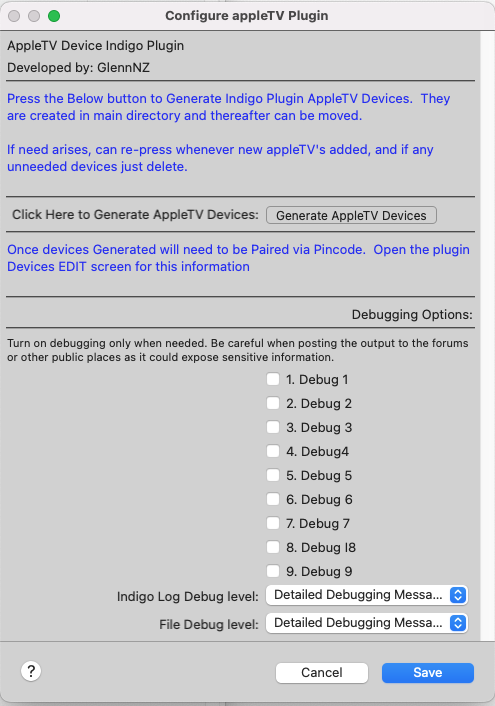
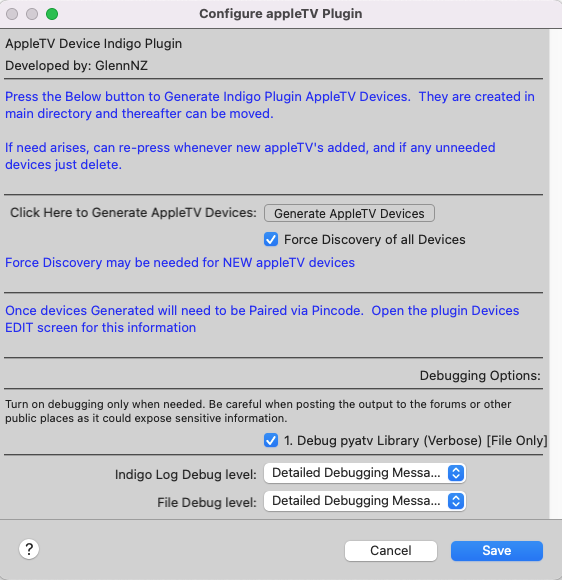
0.0.20 Add pyatv verbose logging (Debug checkbox in plugin Config)  Only logs to file given volume Refactor main appleTVListener loop to restart after any issue Bug fix for connectionlost/close that wasn't leading to correct restart Hopefully fix menu loading for actions remote commands Change Indig
0.0.17
Sort out reloading of remote commands not displaying until save and reopen
Add error catching around commands - in case some that aren't compatible with various devices
On restart/disconnet reload app_list

0.0.16
Add Force Discovery setting to add NEW appleTV devices
(seems to be needed for new 4k device)
Probably a good option...

0.0.15
Additional Remote control states - allow arguments to be sent.
Enabling set volume, double tap, hold, play_URL etc.
MenuItem: Add Logging info to show all Commands possible (not available!)
MenuItem: Add Logging info to show Features available for each Device
Remove unrecognised devices from being created.  (Tested Sonos devices can't work use Airplay2, and unknown encryption)
Should allow AppleTVs (all) and HomePods (untested)
Restart Device after pairing (avoiding need to restart plugin if connection issues)
Fine tuning some aspects.
More repeated reporting of PowerState

Changed region(s): [[0.0, 0.0, 1.0, 0.931], [0.0, 0.931, 1.0, 1.0], [0.0303, 0.931, 0.0909, 0.9621]]

diff --git a/appleTV.indigoPlugin/Contents/Server Plugin/plugin.py b/appleTV.indigoPlugin/Contents/Server Plugin/plugin.py
@@ -79,7 +79,11 @@ class IndigoFileLogHandler(TimedRotatingFileHandler):
             levelno = int(record.levelno)
             if self.level <= levelno:  ## Don't do anything if level display is lower
                 new_msg = f"{path.basename(record.pathname)}:{record.funcName}:{record.lineno}"
-                record.msg =  f"{new_msg} : {record.msg}"
+                try:
+                    second_msg = record.msg % record.args
+                except:
+                    second_msg = record.msg
+                record.msg =  str(new_msg+" : "+second_msg)
                 record.args = None  ## This is the old string formatting %s issue.  Need to combine and then delete all args
                 try:
                     if self.shouldRollover(record):
@@ -164,7 +168,6 @@ class appleTVListener( pyatv.interface.DeviceListener,pyatv.interface.PushListen
         self._app_list = None
         self.all_features = None
         self._task = self.loop.create_task(self.loop_atv(self.loop, atv_config=self.atv_config, deviceid=self.deviceid))
-
 
     ## Add properties
     @property
@@ -288,17 +291,13 @@ class appleTVListener( pyatv.interface.DeviceListener,pyatv.interface.PushListen
 
     def connection_lost(self, exception: Exception) -> None:
         """Call when connection was lost."""
-        self._remove()
+        self.plugin.logger.info("Connection to appleTV lost")
         self._handle_disconnect()
 
     def connection_closed(self) -> None:
         """Call when connection was closed."""
-        self._remove()
+        self.plugin.logger.info("Connection to appleTV closed.")
         self._handle_disconnect()
-
-    def _remove(self):
-        self.app["atv"].pop(self.identifier)
-        self.app["listeners"].remove(self)
 
     def playstatus_update(self, updater, playstatus: pyatv.interface.Playing) -> None:
         """Call when play status was updated."""
@@ -368,6 +367,9 @@ class appleTVListener( pyatv.interface.DeviceListener,pyatv.interface.PushListen
         try:
            # device = retrieve_commands(pyatv.DeviceCommands)
             self.plugin.logger.debug(f"_handle_device_command called - Args: {args}  Cmd:{cmd}")
+            if self.atv == None:
+                self.plugin.logger.info("Current AppleTV is not connected.  Aborting Command request.")
+                return
             ctrl = retrieve_commands(pyatv.interface.RemoteControl)
             metadata = retrieve_commands(pyatv.interface.Metadata)
             power = retrieve_commands(pyatv.interface.Power)
@@ -419,6 +421,7 @@ class appleTVListener( pyatv.interface.DeviceListener,pyatv.interface.PushListen
 
     async def _exec_command(self, obj, command, print_result, *args):
         try:
+
             # If the command to execute is a @property, the value returned by that
             # property will be stored in tmp. Otherwise it's a coroutine and we
             # have to yield for the result and wait until it is available.
@@ -467,36 +470,6 @@ class appleTVListener( pyatv.interface.DeviceListener,pyatv.interface.PushListen
         except:
             self.plugin.logger.exception("Error in send_command")
 
-    async def del_async_end_command(self, command, **kwargs):
-        """Send a command to one device."""
-        #num_repeats = kwargs[ATTR_NUM_REPEATS]
-       # delay = kwargs.get(ATTR_DELAY_SECS, DEFAULT_DELAY_SECS)
-        try:
-            command=command.strip(";")
-            self.plugin.logger.debug(f"Within async send command.  Command {command}")
-            if not self.atv:
-                self.plugin.logger.info("Unable to send commands, not connected to %s", self.name)
-                return
-            attr_value = getattr(self.atv.remote_control, command, None)
-            if not attr_value:
-                raise ValueError("Command not found. Exiting sequence")
-            self.plugin.logger.debug("Sending command %s", command)
-            await attr_value()
-            await asyncio.sleep(0.1)
-        except ValueError:
-            self.plugin.logger.info(f"This Command is not supported.  Command in question = {command}")
-            self.plugin.logger.debug(f"Exception:",exc_info=True)
-            return
-        except pyatv.exceptions.NotSupportedError:
-            self.plugin.logger.info(f"This Command is not supported.  Command in question = {command}")
-            self.plugin.logger.debug(f"Exception:", exc_info=True)
-            return
-        except pyatv.exceptions.CommandError:
-            self.plugin.logger.debug("Command Error in Send Command", exc_info=True)
-            self.plugin.logger.info(f"Command Failed.  Command in question = {command}")
-        except:
-            self.plugin.logger.exception("Async send command exception.")
-
     def playstatus_error(self, updater, exception: Exception) -> None:
         self.plugin.logger.debug("Error in Playstatus", exc_info=True)
 
@@ -506,7 +479,7 @@ class appleTVListener( pyatv.interface.DeviceListener,pyatv.interface.PushListen
         try:
             atvs = await pyatv.scan(loop, identifier=identifier)
             if not atvs:
-                self.plugin.logger.info("No devices found, will retry")
+                self.plugin.logger.info("This specific Device cannot be found.  Please try power cycling it.")
                 return
             config = atvs[0]
             self.plugin.logger.debug(f"AppleTV:\n {config}") #{config.services[0].pairing}")
@@ -521,57 +494,46 @@ class appleTVListener( pyatv.interface.DeviceListener,pyatv.interface.PushListen
         except:
             self.plugin.logger.exception("Connect ATV Exception")
 
-    async def loop_atv(self, loop, atv_config, deviceid):
-        try:
-            identifier = atv_config["identifier"]
-            airplay_credentials = atv_config["credentials"]
-            self.atv = await self.connect_atv(loop, identifier, airplay_credentials)
-            if self.atv:
-                listener = self
-                self.atv.push_updater.listener = listener
-                self.atv.listener = listener
-                self.atv.power.listener = listener
-                self.atv.push_updater.start()
-                self.atv.listener.start()
-                self.atv.power.listener.start()
-                self.plugin.logger.debug("Push updater started")
-                device = indigo.devices[deviceid]
-                device.updateStateOnServer(key="status", value="Paired. Push Updating.")
-                # Update app list
-                self.plugin.logger.debug("Updating app list")
-                self.plugin.logger.info(f"{device.name} successfully connected and real-time Push updating enabled.")
-                if self.isAppleTV:
-                    await self._update_app_list()
+    async def start_loop_atv(self, loop, atv_config, deviceid):
+        while True:
+            try:
+                self.loop_atv(loop, atv_config,deviceid)
+            except self.plugin.stopThread:
+                break
+            except:
+                self.plugin.logger.debug("Exception in Loop_ATV:  Should restart.", exc_info=True)
 
-            while True:
-                await asyncio.sleep(20)
-                try:
-                    pass
-                    #self.atv.metadata.app
-                except self.plugin.stopThread:
-                    break
-                except:
-                    self.plugin.logger.debug("Exception:", exc_info=True)
-                    self.plugin.logger.debug("Reconnecting to Apple TV")
-                    # reconnect to apple tv
-                    self.atv = await self.connect_atv(loop, identifier, airplay_credentials)
-                    if self.atv:
-                        listener = self
-                        self.atv.push_updater.listener = listener
-                        self.atv.listener = listener
-                        self.atv.power.listener = listener
-                        self.atv.push_updater.start()
-                        self.atv.listener.start()
-                        self.atv.power.listener.start()
-                        self.plugin.logger.debug("Push updater started")
-                        self.plugin.logger.info(f"{device.name} successfully connected and real-time Push updating enabled.")
-                        if self.isAppleTV:
-                            await self._update_app_list()
-        except self.plugin.stopThread:
-            pass
-        except:
-            self.plugin.logger.debug("Exception Loop:",exc_info=True)
-################################################################################
+
+    async def loop_atv(self, loop, atv_config, deviceid):
+
+        while True:
+            try:
+                identifier = atv_config["identifier"]
+                airplay_credentials = atv_config["credentials"]
+                self.atv = await self.connect_atv(loop, identifier, airplay_credentials)
+                if self.atv:
+                    self.atv.push_updater.listener = self
+                    self.atv.listener = self
+                    self.atv.power.listener = self
+                    self.atv.push_updater.start()
+                    self.atv.listener.start()
+                    self.atv.power.listener.start()
+                    self.plugin.logger.debug("Push updater started")
+                    device = indigo.devices[deviceid]
+                    device.updateStateOnServer(key="status", value="Paired. Push Updating.")
+                    # Update app list
+                    self.plugin.logger.debug("Updating app list")
+                    self.plugin.logger.info(f"{device.name} successfully connected and real-time Push updating enabled.")
+                    if self.isAppleTV:
+                        await self._update_app_list()
+                    while True:
+                        await asyncio.sleep(20)
+
+            except self.plugin.stopThread:
+                break
+            except:
+                self.plugin.logger.debug("Exception in Loop_ATV:  Should restart.",exc_info=True)
+    ################################################################################
 class Plugin(indigo.PluginBase):
     def __init__(self, pluginId, pluginDisplayName, pluginVersion, pluginPrefs):
         indigo.PluginBase.__init__(self, pluginId, pluginDisplayName, pluginVersion, pluginPrefs)
@@ -615,7 +577,9 @@ class Plugin(indigo.PluginBase):
         ################################################################################
         # Finish Logging changes
         ################################################################################
-        logging.getLogger("Plugin.pyatv").setLevel(logging.THREADDEBUG)
+
+
+
         try:
             import pyatv
         except ImportError:
@@ -663,14 +627,15 @@ class Plugin(indigo.PluginBase):
         self.debug8 = self.pluginPrefs.get('debug8', False)
         self.debug9 = self.pluginPrefs.get('debug9', False)
 
-        if self.debug3:
-            logging.getLogger("Plugin.HomeKit_pyHap").setLevel(logging.DEBUG)
-        else:
-            logging.getLogger("Plugin.HomeKit_pyHap").setLevel(logging.INFO)
-
         self._event_loop = None
         self._another_event_loop = None
         self._async_thread = None
+
+        if self.debug1:
+            pyatv_logging = logging.getLogger("pyatv")
+            pyatv_logging.setLevel(logging.THREADDEBUG)
+            #pyatv_logging.addHandler(self.indigo_log_handler)
+            pyatv_logging.addHandler(self.plugin_file_handler)
 
         self.logger.info(u"{0:=^130}".format(" End Initializing New Plugin  "))
 
@@ -708,6 +673,11 @@ class Plugin(indigo.PluginBase):
             self.logger.debug(u"logLevel = " + str(self.logLevel))
             self.logger.debug(u"User prefs saved.")
             self.logger.debug(u"Debugging on (Level: {0})".format(self.logLevel))
+            if self.debug1:
+                pyatv_logging = logging.getLogger("pyatv")
+                pyatv_logging.setLevel(logging.THREADDEBUG)
+                # pyatv_logging.addHandler(self.indigo_log_handler)
+                pyatv_logging.addHandler(self.plugin_file_handler)
         return True
 
     def deviceStartComm(self, device):
@@ -1240,7 +1210,7 @@ class Plugin(indigo.PluginBase):
                 break
 
     def menu_callback(self, valuesDict, *args, **kwargs):  # typeId, devId):
-        self.logger.debug("Subtype callback: returning valuesDict \n {}".format(valuesDict))
+        self.logger.debug(f"Menu callback: returning valuesDict: \n {valuesDict}")
         return valuesDict
 
     def app_list_generator(self, filter="", values_dict=None, typeId="", targetId=0):
